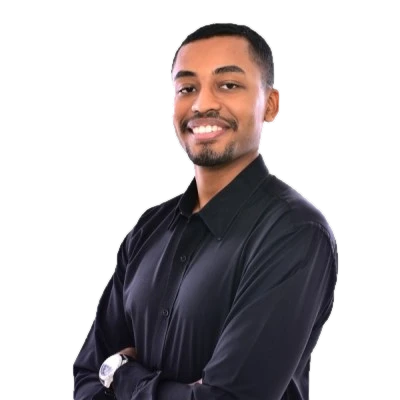
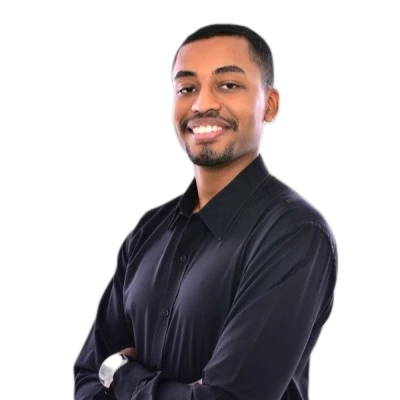
feat: hero para recrutador, foto recortada por modelo de retrato e 8+ anos
- Hero reescrito para chamar atencao: selo Aberto a novas oportunidades,
  titulo grande com destaque em laranja, foto maior num arco com os
  numeros flutuando (8+ anos, 130+ automacoes, 10 agentes), botoes em
  pilula. No celular a foto vem antes do texto.
- Faixa escura logo abaixo com onde a trajetoria foi construida.
- Foto recortada pelo rembg (u2net_human_seg), que separa pela forma: o
  recorte por cor comia o reflexo claro da bochecha e da temporada.
- Mais de 8 anos com dados no hero, no card e no Sobre.

diff --git a/components/site/Portrait.tsx b/components/site/Portrait.tsx
@@ -1,65 +1,48 @@
 import { site } from "@/content/site";
+import { hub } from "@/content/hub";
+import { numeros } from "@/content/automacoes";
 import { withBase } from "@/lib/paths";
+import { t, type Locale } from "@/lib/i18n";
+import { StatIcon } from "./Icon";
 
-// Quadrado que vai de 8% acima da caixa até a base do círculo: nele o círculo tem
-// centro em (50%, 58%) e raio de 42%, os mesmos números dos dois clip-paths.
-function FotoCamada({ estilo }: { estilo: React.CSSProperties }) {
+// Selo flutuante com um número que vende: ícone laranja, número grande, rótulo curto.
+function Chip({ valor, rotulo, icone, className, delay }: { valor: string; rotulo: string; icone: "chart" | "bot" | "flow"; className: string; delay: string }) {
   return (
-    <div className="absolute inset-x-0 bottom-[8%] top-[-8%]" style={estilo} aria-hidden={estilo.clipPath?.toString().startsWith("circle") ? undefined : true}>
-      {/* eslint-disable-next-line @next/next/no-img-element */}
-      <img
-        src={withBase(site.foto!)}
-        alt={estilo.clipPath?.toString().startsWith("circle") ? site.name : ""}
-        className="absolute bottom-0 left-1/2 h-full w-auto max-w-none -translate-x-1/2"
-        width={400}
-        height={400}
-      />
+    <div
+      className={`float absolute z-20 flex items-center gap-2 rounded-xl border border-rule bg-surface px-2.5 py-2 shadow-[0_18px_40px_-16px_rgba(23,18,14,0.35)] sm:gap-3 sm:rounded-2xl sm:px-4 sm:py-3 ${className}`}
+      style={{ animationDelay: delay }}
+    >
+      <span className="flex size-8 items-center justify-center rounded-lg bg-accent text-white sm:size-10 sm:rounded-xl"><StatIcon kind={icone} /></span>
+      <span className="leading-tight">
+        <span className="block font-display text-lg font-semibold text-ink sm:text-2xl">{valor}</span>
+        <span className="block text-[0.65rem] text-ink-2 sm:text-xs">{rotulo}</span>
+      </span>
     </div>
   );
 }
 
-// Foto sobre o círculo em degradê; sem foto, as iniciais ocupam o mesmo lugar.
-export function Portrait() {
+// Foto em um arco laranja: a cabeça passa do topo do arco e a base apoia na base dele.
+export function Portrait({ locale }: { locale: Locale }) {
   return (
-    <div className="relative mx-auto aspect-square w-full max-w-[420px]">
-      <div aria-hidden="true" className="dots absolute -right-2 top-4 h-28 w-28 opacity-60" />
-      <div aria-hidden="true" className="absolute inset-[8%] rounded-full bg-gradient-to-br from-[#ffd2ae] via-[#ff9a5a] to-accent" />
-      <div aria-hidden="true" className="absolute inset-[8%] rounded-full shadow-[0_30px_80px_-20px_rgba(242,106,27,0.45)]" />
+    <div className="relative mx-auto aspect-[4/5] w-full max-w-[300px] sm:max-w-[380px] md:max-w-[440px]">
+      <div aria-hidden="true" className="dots absolute -left-6 top-6 h-32 w-32 opacity-70" />
+      <div aria-hidden="true" className="absolute inset-x-[2%] bottom-[-3%] top-[6%] rounded-t-full border-2 border-dashed border-accent/35" />
+      <div aria-hidden="true" className="absolute inset-x-[8%] bottom-0 top-[14%] rounded-t-full bg-gradient-to-b from-[#ffb37a] via-accent to-accent-2 shadow-[0_40px_80px_-30px_rgba(242,106,27,0.6)]" />
       {site.foto ? (
-        <>
-          {/* Duas cópias da mesma foto na mesma posição: a de cima mostra tudo acima do
-              centro do círculo (cabeça e ombros sem corte); a de baixo, só o que cai
-              dentro do círculo. A união dá o recorte do modelo, sem aresta reta. */}
-          <FotoCamada estilo={{ clipPath: "inset(0 0 42% 0)" }} />
-          <FotoCamada estilo={{ clipPath: "circle(42% at 50% 58%)" }} />
-        </>
+        // eslint-disable-next-line @next/next/no-img-element
+        <img
+          src={withBase(site.foto)}
+          alt={site.name}
+          width={400}
+          height={400}
+          className="absolute bottom-0 left-1/2 z-10 h-[92%] w-auto max-w-none -translate-x-1/2 drop-shadow-[0_20px_30px_rgba(23,18,14,0.25)]"
+        />
       ) : (
-        <div className="absolute inset-[8%] flex items-center justify-center rounded-full text-7xl font-bold tracking-tight text-white/90">TB</div>
+        <div className="absolute inset-x-[8%] bottom-0 top-[14%] z-10 flex items-center justify-center rounded-t-full text-7xl font-bold text-white/90">TB</div>
       )}
-
-      {/* card de "código": a regra do hub escrita como objeto */}
-      <div className="absolute -right-1 top-[50%] hidden w-52 rounded-xl bg-[#17120e] p-3 font-mono text-[11px] leading-5 text-[#d6cfc7] shadow-2xl sm:block lg:-right-8">
-        <div className="mb-1.5 flex items-center justify-between text-[#8a7f76]">
-          <span>{"</>"} agente.py</span>
-          <span className="flex gap-1">
-            <span className="size-2 rounded-full bg-[#fb7185]" />
-            <span className="size-2 rounded-full bg-[#fbbf24]" />
-            <span className="size-2 rounded-full bg-[#34d399]" />
-          </span>
-        </div>
-        <div><span className="text-white">agente</span> = {"{"}</div>
-        <div className="pl-3"><span className="text-[#fdba74]">&quot;fonte&quot;</span>: <span className="text-[#fdba74]">&quot;ERP · MES&quot;</span>,</div>
-        <div className="pl-3"><span className="text-[#fdba74]">&quot;sugere&quot;</span>: <span className="text-[#fdba74]">&quot;modelo&quot;</span>,</div>
-        <div className="pl-3"><span className="text-[#fdba74]">&quot;decide&quot;</span>: <span className="text-[#fdba74]">&quot;código&quot;</span>,</div>
-        <div className="pl-3"><span className="text-[#fdba74]">&quot;confirma&quot;</span>: <span className="text-[#fdba74]">&quot;pessoa&quot;</span>,</div>
-        <div>{"}"}</div>
-      </div>
-
-      {/* selo de números */}
-      <div className="absolute bottom-[10%] -left-1 flex items-center gap-3 rounded-xl border border-rule bg-surface px-4 py-3 shadow-[0_12px_30px_-10px_rgba(23,18,14,0.25)] lg:-left-6">
-        <span className="font-mono text-2xl font-semibold text-ink">135</span>
-        <span className="text-xs leading-tight text-ink-2">workflows<br />em produção</span>
-      </div>
+      <Chip valor="8+" rotulo={t("chip_years", locale)} icone="chart" className="-left-10 top-[28%] sm:-left-10" delay="0s" />
+      <Chip valor={`${Math.floor(numeros.workflows / 10) * 10}+`} rotulo={t("chip_auto", locale)} icone="flow" className="-right-10 top-[52%] sm:-right-10" delay="1.2s" />
+      <Chip valor={String(hub.agentes.length)} rotulo={t("chip_agents", locale)} icone="bot" className="-left-8 bottom-[6%] sm:-left-6" delay="2.4s" />
     </div>
   );
 }

diff --git a/content/site.ts b/content/site.ts
@@ -35,18 +35,21 @@ export const site = {
   name: "Thomas Barbosa",
   role: { pt: "Especialista de Dados · IA & Automação", en: "Data Specialist · AI & Automation" } satisfies Text,
   tagline: {
-    pt: "Há mais de 5 anos transformo dados dispersos em decisões de negócio — com passagens pela Arco Educação, pela Solar Coca-Cola e, hoje, pela indústria. No Grupo Raposo Plásticos, lidero o time de Dados e IA que atende cinco fábricas: mais de 130 automações em produção orquestram o pipeline de ponta a ponta, da alimentação do ERP e do MES até painéis de BI e agentes de IA analíticos que direcionam o olhar estratégico do grupo.",
-    en: "For 5+ years I've turned scattered data into business decisions — at Arco Educação, Solar Coca-Cola and now in manufacturing. At Grupo Raposo Plásticos I lead the Data & AI team serving five plants: 130+ automations in production orchestrate the pipeline end to end, from ERP and MES data entry to BI dashboards and analytical AI agents that steer the group's strategy.",
+    pt: "Há mais de 8 anos transformo dados dispersos em decisões de negócio — com passagens pela Arco Educação, pela Solar Coca-Cola e, hoje, pela indústria. No Grupo Raposo Plásticos, lidero o time de Dados e IA que atende cinco fábricas: mais de 130 automações em produção orquestram o pipeline de ponta a ponta, da alimentação do ERP e do MES até painéis de BI e agentes de IA analíticos que direcionam o olhar estratégico do grupo.",
+    en: "For 8+ years I've turned scattered data into business decisions — at Arco Educação, Solar Coca-Cola and now in manufacturing. At Grupo Raposo Plásticos I lead the Data & AI team serving five plants: 130+ automations in production orchestrate the pipeline end to end, from ERP and MES data entry to BI dashboards and analytical AI agents that steer the group's strategy.",
   } satisfies Text,
   // Foto em public/img. Sem ela, o retrato mostra as iniciais.
   foto: "/img/foto.webp" as string | null,
   local: { pt: "Fortaleza, Ceará", en: "Fortaleza, Brazil" } satisfies Text,
   saudacao: { pt: "Olá, sou o", en: "Hi, I'm" } satisfies Text,
   primeiroNome: "Thomas",
+  // O título do hero: a palavra em destaque ganha o marcador laranja.
   headline: {
-    pt: "Construo agentes de IA que rodam em produção.",
-    en: "I build AI agents that run in production.",
-  } satisfies Text,
+    pt: { antes: "Dados e IA que viram ", destaque: "resultado", depois: " na indústria." },
+    en: { antes: "Data and AI that turn into ", destaque: "results", depois: " on the factory floor." },
+  },
+  // Onde a trajetória foi construída: a faixa de credibilidade logo abaixo do hero.
+  trajetoria: ["Arco Educação", "Solar Coca-Cola", "Grupo Raposo Plásticos", "USP / ESALQ", "UFC"],
   links: {
     linkedin: "https://www.linkedin.com/in/thomas-barbosa-silva/",
     github: "https://github.com/ithormb",
@@ -59,7 +62,7 @@ export const site = {
   } satisfies Text,
 
   stats: [
-    { valor: "5+", rotulo: { pt: "anos em dados e BI", en: "years in data and BI" }, icone: "chart" },
+    { valor: "8+", rotulo: { pt: "anos com dados", en: "years in data" }, icone: "chart" },
     { valor: String(hub.agentes.length), rotulo: { pt: "agentes de IA em produção", en: "AI agents in production" }, icone: "bot" },
     { valor: String(numeros.workflows), rotulo: { pt: "workflows no n8n", en: "n8n workflows" }, icone: "flow" },
     { valor: "5", rotulo: { pt: "fábricas atendidas", en: "plants served" }, icone: "factory" },
@@ -100,8 +103,8 @@ export const site = {
       en: `I work where data, AI and operations meet. I lead the Data & AI team of a manufacturing group with five plants: we built a hub of ${hub.agentes.length} AI agents and the web of automations that takes data from the ERP, the MES and spreadsheets to the people who decide — on screen, on WhatsApp, by e-mail or as a task with a deadline.`,
     },
     {
-      pt: "Sou engenheiro mecânico pela UFC e fiz MBA em Data Science e Analytics na USP/ESALQ. Antes disso foram mais de cinco anos em dados: BI e projetos numa plataforma de educação, depois inteligência de mercado e pricing na Solar Coca-Cola. De lá trouxe duas regras que guiam o que construo: número sem data e sem origem não serve para decidir, e o modelo de linguagem aconselha — quem executa é código, com uma pessoa confirmando.",
-      en: "I'm a mechanical engineer from UFC with an MBA in Data Science and Analytics from USP/ESALQ. Before this came more than five years in data: BI and projects at an education platform, then market intelligence and pricing at Solar Coca-Cola. From there I brought two rules that guide what I build: a number without a date and a source is useless for decisions, and the language model advises — code executes, with a person confirming.",
+      pt: "Sou engenheiro mecânico pela UFC, com MBA em Data Science e Analytics pela USP/ESALQ. São mais de oito anos com dados — BI e projetos na Arco Educação, inteligência de mercado e pricing na Solar Coca-Cola e, hoje, a indústria. Desse caminho trouxe duas regras que guiam o que construo: número sem data e sem origem não serve para decidir, e o modelo de linguagem aconselha — quem executa é código, com uma pessoa confirmando.",
+      en: "I'm a mechanical engineer from UFC with an MBA in Data Science and Analytics from USP/ESALQ. That's more than eight years in data — BI and projects at Arco Educação, market intelligence and pricing at Solar Coca-Cola and, now, manufacturing. From that path I brought two rules that guide what I build: a number without a date and a source is useless for decisions, and the language model advises — code executes, with a person confirming.",
     },
     {
       pt: `Em seis meses foram ${numeros.workflows} workflows no n8n, integrando ERP, BigQuery, Microsoft 365, Google, WhatsApp e APIs públicas. Os projetos de estudo em BI e machine learning estão logo abaixo.`,

diff --git a/components/site/Hero.tsx b/components/site/Hero.tsx
@@ -7,25 +7,40 @@ import { TechBadge } from "./Icon";
 const DESTAQUE = ["n8n", "Python", "SQL", "Power BI", "Microsoft Fabric", "BigQuery", "OpenAI", "Claude Code", "LangChain"];
 
 export function Hero({ locale }: { locale: Locale }) {
+  const h = site.headline[locale];
   return (
     <section className="relative overflow-x-clip">
-      <div aria-hidden="true" className="pointer-events-none absolute -top-40 right-0 h-[520px] w-[520px] rounded-full bg-[#ffe4d0] opacity-60 blur-3xl" />
-      <div className="relative mx-auto grid max-w-6xl items-center gap-12 px-5 pb-20 pt-14 sm:px-8 md:grid-cols-[1.1fr_1fr] md:pt-20">
+      <div aria-hidden="true" className="pointer-events-none absolute -top-40 right-[-10%] h-[640px] w-[640px] rounded-full bg-[#ffe4d0] opacity-70 blur-3xl" />
+      <div className="relative mx-auto grid max-w-6xl items-center gap-10 px-5 pb-16 pt-10 md:gap-14 sm:px-8 md:grid-cols-[1.15fr_1fr] md:pt-16">
         <div>
-          <span className="inline-flex items-center rounded-full bg-accent-soft px-3.5 py-1.5 text-[0.7rem] font-bold uppercase tracking-widest text-accent-ink">
-            {t("role_pill", locale)}
+          <span className="inline-flex items-center gap-2 rounded-full border border-[#bbf7d0] bg-[#f0fdf4] px-3.5 py-1.5 text-xs font-semibold text-[#166534]">
+            <span className="relative flex size-2.5">
+              <span className="absolute inline-flex h-full w-full animate-ping rounded-full bg-[#22c55e] opacity-60 motion-reduce:animate-none" />
+              <span className="relative inline-flex size-2.5 rounded-full bg-[#16a34a]" />
+            </span>
+            {t("open_to_work", locale)}
           </span>
-          <p className="mt-6 font-display text-4xl font-semibold tracking-tight text-ink sm:text-5xl">
-            {site.saudacao[locale]} <span className="text-gradient">{site.primeiroNome}</span>
+          <p className="mt-6 text-lg text-ink-2">
+            {t("hello", locale)} <span className="font-semibold text-ink">{site.name}</span>
           </p>
-          <h1 className="mt-2 text-3xl font-semibold leading-tight tracking-tight text-ink sm:text-4xl">{site.headline[locale]}</h1>
-          <p className="mt-5 max-w-lg text-lg leading-relaxed">{site.tagline[locale]}</p>
+          <p className="mt-1 text-sm font-bold uppercase tracking-[0.14em] text-accent-ink">{t("role_pill", locale)}</p>
+          <h1 className="mt-3 text-5xl font-semibold leading-[1.02] text-ink sm:text-6xl lg:text-[4.4rem]">
+            {h.antes}
+            <span className="relative whitespace-nowrap text-accent">
+              {h.destaque}
+              <svg aria-hidden="true" viewBox="0 0 220 18" preserveAspectRatio="none" className="absolute -bottom-2 left-0 h-3 w-full text-accent/60">
+                <path d="M3 13 C 50 3, 120 3, 217 9" fill="none" stroke="currentColor" strokeWidth="5" strokeLinecap="round" />
+              </svg>
+            </span>
+            {h.depois}
+          </h1>
+          <p className="mt-7 max-w-xl text-[1.05rem] leading-relaxed">{site.tagline[locale]}</p>
           <div className="mt-8 flex flex-wrap gap-3">
-            <Link href={`/${locale}/#projetos`} className="inline-flex h-11 items-center gap-2 rounded-lg bg-accent px-5 text-sm font-semibold text-white transition-colors hover:bg-accent-2 active:scale-95">
+            <Link href={`/${locale}/#projetos`} className="inline-flex h-12 items-center gap-2 rounded-full bg-accent px-6 text-sm font-semibold text-white shadow-[0_12px_24px_-10px_rgba(242,106,27,0.7)] transition hover:bg-accent-2 active:scale-95">
               {t("cta_work", locale)} <span aria-hidden="true">↗</span>
             </Link>
-            <a href={site.links.linkedin} target="_blank" rel="noreferrer noopener" className="inline-flex h-11 items-center gap-2 rounded-lg border border-ink/20 bg-surface px-5 text-sm font-semibold text-ink transition-colors hover:border-ink active:scale-95">
-              {t("cta_linkedin", locale)}
+            <a href={site.links.linkedin} target="_blank" rel="noreferrer noopener" className="inline-flex h-12 items-center gap-2 rounded-full bg-ink px-6 text-sm font-semibold text-white transition hover:bg-ink-2 active:scale-95">
+              {t("cta_talk", locale)}
             </a>
           </div>
           <p className="mt-10 text-xs font-semibold uppercase tracking-widest text-muted">{t("tech_i_use", locale)}</p>
@@ -35,7 +50,9 @@ export function Hero({ locale }: { locale: Locale }) {
             ))}
           </ul>
         </div>
-        <Portrait />
+        <div className="order-first md:order-none">
+          <Portrait locale={locale} />
+        </div>
       </div>
     </section>
   );

diff --git a/lib/i18n.ts b/lib/i18n.ts
@@ -14,6 +14,13 @@ export const ui = {
   nav_skills: { pt: "Tecnologias", en: "Skills" },
   nav_contact: { pt: "Contato", en: "Contact" },
   role_pill: { pt: "Especialista de Dados · IA & Automação", en: "Data Specialist · AI & Automation" },
+  open_to_work: { pt: "Aberto a novas oportunidades", en: "Open to new opportunities" },
+  hello: { pt: "Olá, sou o", en: "Hi, I'm" },
+  cta_talk: { pt: "Falar comigo", en: "Get in touch" },
+  trust_label: { pt: "Trajetória construída em", en: "Career built at" },
+  chip_years: { pt: "anos com dados", en: "years in data" },
+  chip_auto: { pt: "automações em produção", en: "automations in production" },
+  chip_agents: { pt: "agentes de IA", en: "AI agents" },
   cta_work: { pt: "Ver meu trabalho", en: "See my work" },
   cta_linkedin: { pt: "Falar no LinkedIn", en: "Message on LinkedIn" },
   tech_i_use: { pt: "Tecnologias que uso", en: "Technologies I use" },

diff --git a/components/site/TrustBar.tsx b/components/site/TrustBar.tsx
@@ -1,0 +1,18 @@
+import { site } from "@/content/site";
+import { t, type Locale } from "@/lib/i18n";
+
+// Faixa de credibilidade: onde a trajetória foi construída, em nomes, sem logos de terceiros.
+export function TrustBar({ locale }: { locale: Locale }) {
+  return (
+    <section className="border-y border-rule bg-ink">
+      <div className="mx-auto flex max-w-6xl flex-col items-center gap-4 px-5 py-8 sm:px-8 md:flex-row md:gap-10">
+        <p className="shrink-0 text-xs font-bold uppercase tracking-[0.18em] text-accent">{t("trust_label", locale)}</p>
+        <ul className="flex flex-1 flex-wrap items-center justify-center gap-x-7 gap-y-2 md:justify-start">
+          {site.trajetoria.map((n) => (
+            <li key={n} className="font-display text-lg font-semibold text-white/85 lg:text-xl">{n}</li>
+          ))}
+        </ul>
+      </div>
+    </section>
+  );
+}

diff --git a/app/[locale]/page.tsx b/app/[locale]/page.tsx
@@ -4,6 +4,7 @@ import { isLocale, type Locale } from "@/lib/i18n";
 import { Navbar } from "@/components/site/Navbar";
 import { Hero } from "@/components/site/Hero";
 import { About } from "@/components/site/About";
+import { TrustBar } from "@/components/site/TrustBar";
 import { Skills } from "@/components/site/Skills";
 import { Experience } from "@/components/site/Experience";
 import { Projects } from "@/components/site/Projects";
@@ -25,6 +26,7 @@ export default async function Home({ params }: { params: Promise<{ locale: strin
       <Navbar locale={l} />
       <main id="conteudo">
         <Hero locale={l} />
+        <TrustBar locale={l} />
         <About locale={l} />
         <Skills locale={l} />
         <Experience locale={l} />

diff --git a/app/globals.css b/app/globals.css
@@ -66,6 +66,10 @@ h1, h2, h3 { font-family: var(--font-display); letter-spacing: -0.01em; }
   background-size: 14px 14px;
 }
 
+/* Selos do hero flutuam devagar, cada um no seu tempo. */
+@keyframes flutuar { 0%, 100% { transform: translateY(0); } 50% { transform: translateY(-8px); } }
+.float { animation: flutuar 6s ease-in-out infinite; }
+
 @media (prefers-reduced-motion: reduce) {
   html { scroll-behavior: auto; }
   *, *::before, *::after { animation: none !important; transition: none !important; }
